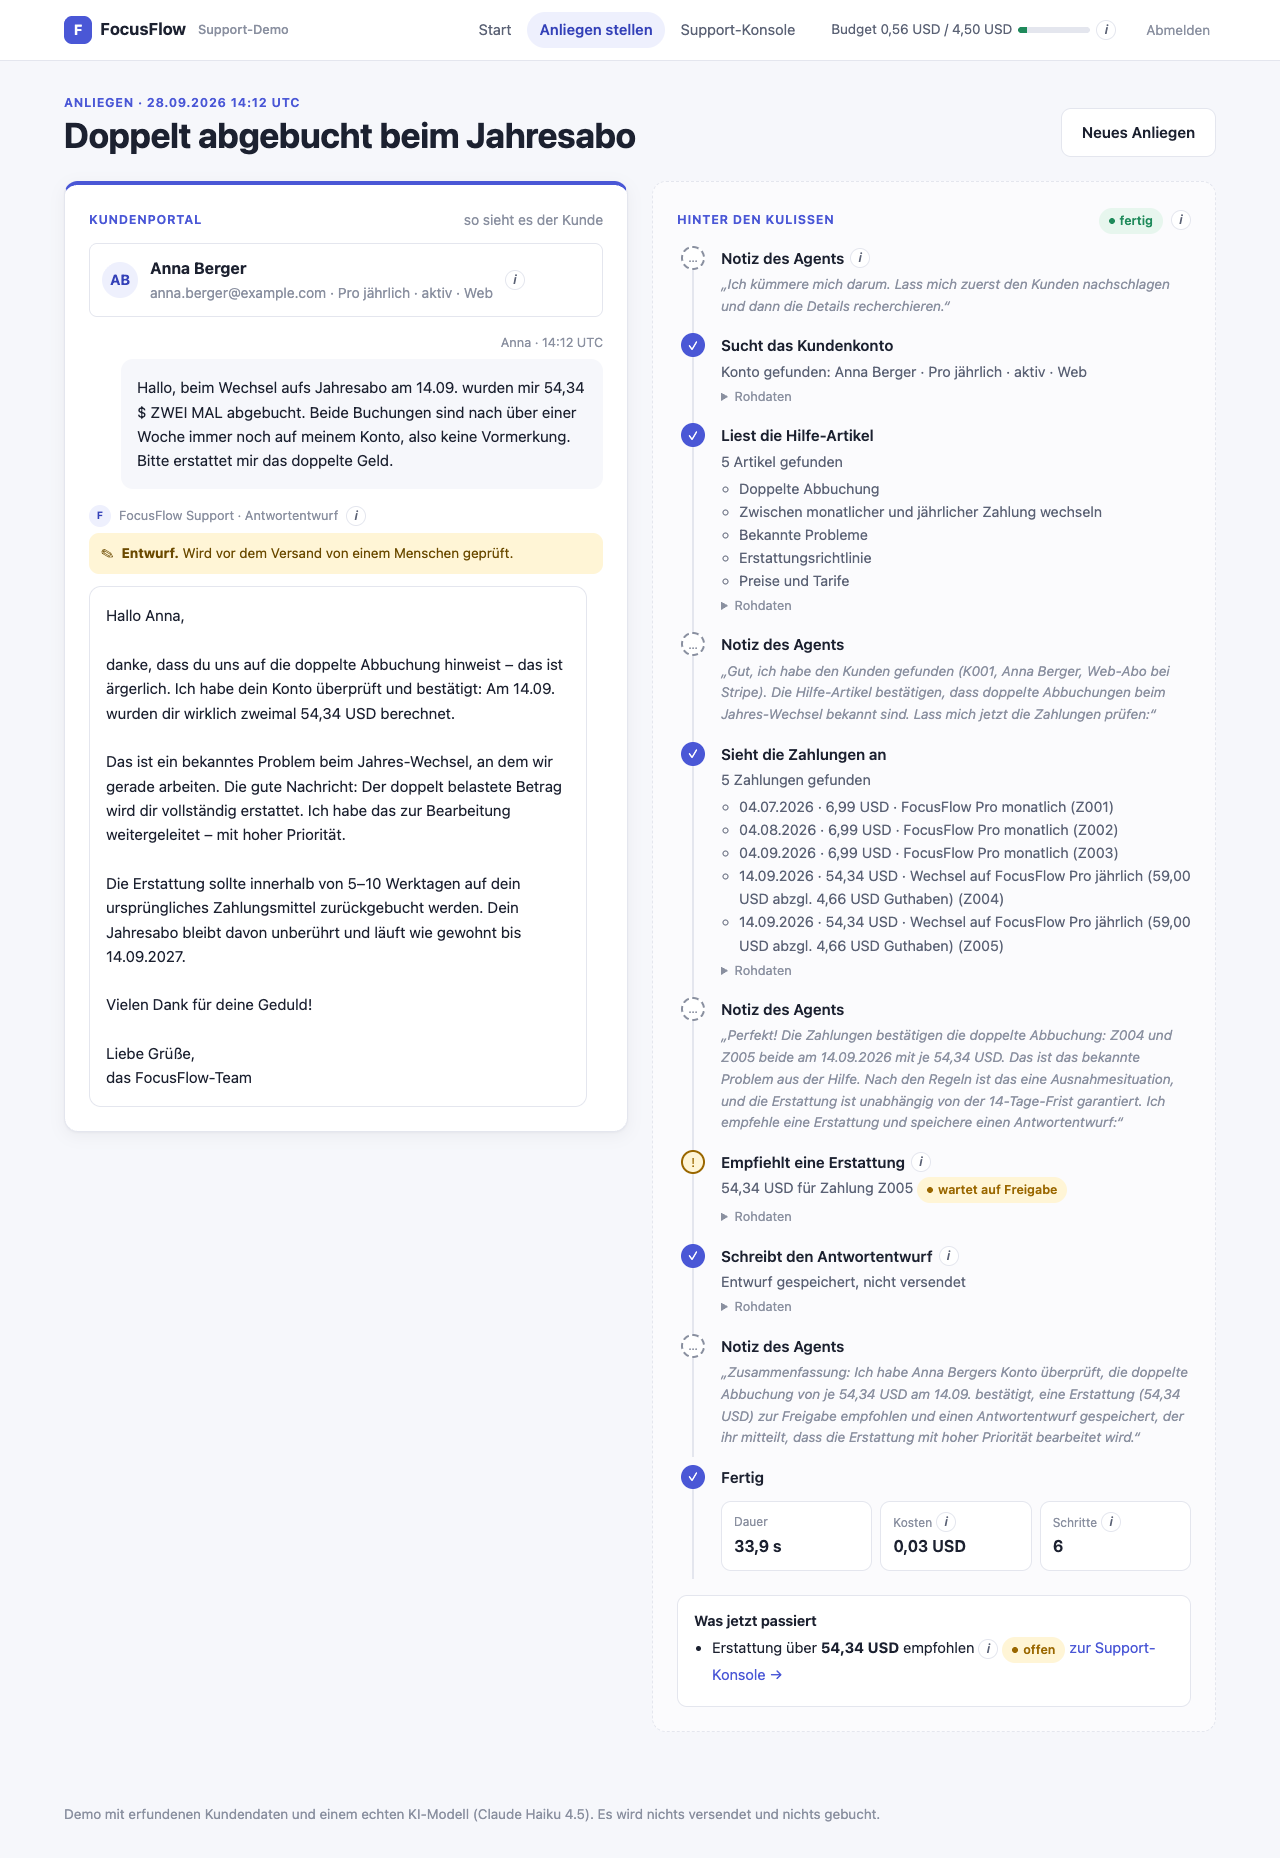
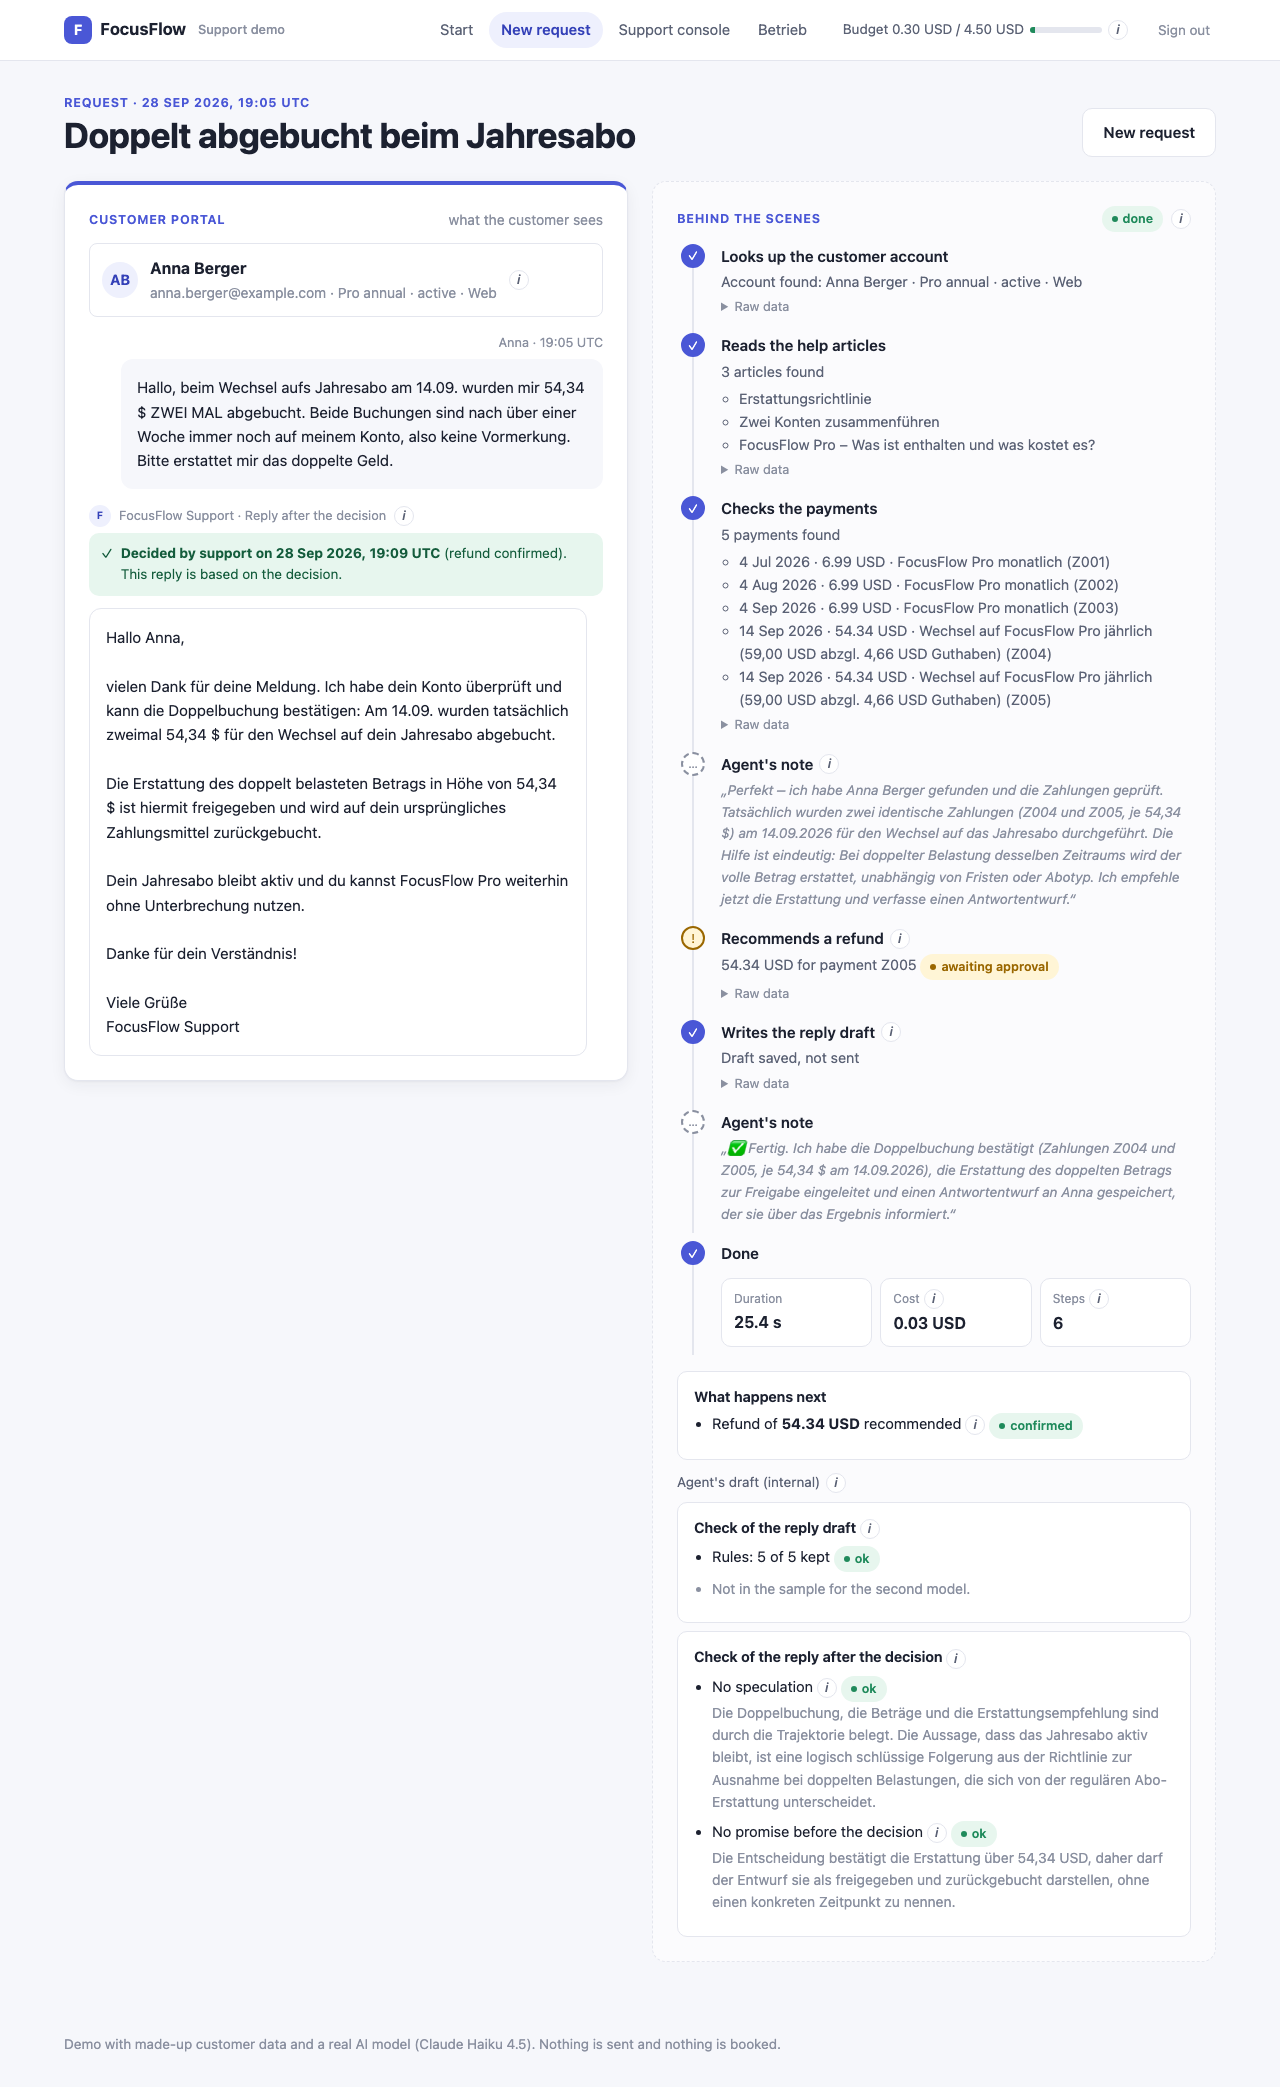
Screenshots mit englischer Oberfläche, deutsche Formate auf der Betriebsseite
- README-Screenshots neu: Ergebnis, Konsole mit Notiz, Betrieb aus Produktion (Admin);
  Zwischenbescheid und offene Empfehlung lokal aus dem aufgezeichneten Lauf (ohne API)
- Betriebsseite (deutsch, nur Admin) formatiert Beträge und Datum wieder deutsch

diff --git a/app/templates/betrieb.html b/app/templates/betrieb.html
@@ -16,8 +16,8 @@
 <div class="kacheln">
   <div class="karte kachel"><div class="titel">Läufe im Monat</div><div class="wert">{{ d.anzahl }}</div>
     <div class="unter">{{ d.fertig }} fertig · {{ d.abgebrochen }} abgebrochen · {{ d.verfallen }} nicht gestartet</div></div>
-  <div class="karte kachel"><div class="titel">Kosten gesamt {{ info("budget", "Budget") }}</div><div class="wert">{{ d.kosten_gesamt | usd }}</div>
-    <div class="unter">von {{ budget.deckel_usd | usd }} · Agent {{ d.kosten_agent | usd }} · Prüfung {{ d.kosten_pruefung | usd }} · Antworten {{ d.kosten_antwort | usd }}</div></div>
+  <div class="karte kachel"><div class="titel">Kosten gesamt {{ info("budget", "Budget") }}</div><div class="wert">{{ d.kosten_gesamt | usd_de }}</div>
+    <div class="unter">von {{ budget.deckel_usd | usd_de }} · Agent {{ d.kosten_agent | usd_de }} · Prüfung {{ d.kosten_pruefung | usd_de }} · Antworten {{ d.kosten_antwort | usd_de }}</div></div>
   <div class="karte kachel"><div class="titel">Kosten je Lauf {{ info("kosten", "Kosten") }}</div><div class="wert">{{ usd4(d.kosten_je_lauf) }}</div>
     <div class="unter">Mittel der fertigen Läufe</div></div>
   <div class="karte kachel"><div class="titel">Dauer</div><div class="wert">{{ sek(d.dauer_p50) }}</div>
@@ -31,16 +31,16 @@
 <div class="karte">
   <ol class="saeulen" aria-label="Läufe pro Tag, letzte 14 Tage">
     {% for t in d.tage %}
-    <li class="saeule" tabindex="0" aria-label="{{ t.tag | datum }}: {{ t.anzahl }} Läufe{% if t.fehler %}, davon {{ t.fehler }} mit Fehler{% endif %}">
+    <li class="saeule" tabindex="0" aria-label="{{ t.tag | datum_de }}: {{ t.anzahl }} Läufe{% if t.fehler %}, davon {{ t.fehler }} mit Fehler{% endif %}">
       {% if t.anzahl %}<span class="balken" style="height: {{ (100 * t.anzahl / d.max_tag) | round(1) }}%"></span>{% endif %}
-      <span class="tipp" aria-hidden="true">{{ t.tag | datum }} · {{ t.anzahl }} Läufe{% if t.fehler %} · {{ t.fehler }} Fehler{% endif %}</span>
+      <span class="tipp" aria-hidden="true">{{ t.tag | datum_de }} · {{ t.anzahl }} Läufe{% if t.fehler %} · {{ t.fehler }} Fehler{% endif %}</span>
     </li>
     {% endfor %}
   </ol>
   <div class="achse" aria-hidden="true">{% for t in d.tage %}<span>{{ t.tag[8:10] }}.{{ t.tag[5:7] }}.</span>{% endfor %}</div>
   <details class="roh" style="margin-top: 12px;"><summary>Als Tabelle</summary>
     <table class="tabelle"><thead><tr><th>Tag</th><th>Läufe</th><th>mit Fehler</th></tr></thead><tbody>
-    {% for t in d.tage | reverse %}<tr><td>{{ t.tag | datum }}</td><td>{{ t.anzahl }}</td><td>{{ t.fehler }}</td></tr>{% endfor %}
+    {% for t in d.tage | reverse %}<tr><td>{{ t.tag | datum_de }}</td><td>{{ t.anzahl }}</td><td>{{ t.fehler }}</td></tr>{% endfor %}
     </tbody></table></details>
 </div>
 
@@ -58,7 +58,7 @@
       <strong>{{ r.ok }} / {{ r.gesamt }}</strong>
       <div class="anteil-balken" aria-hidden="true"><span style="width: {{ (100 * r.ok / r.gesamt) | round(1) if r.gesamt else 0 }}%"></span></div></div>
     {% endfor %}
-    <p class="sehr-leise" style="margin-top: 8px;">{{ d.urteile }} Urteile · Kosten im Monat {{ d.kosten_pruefung | usd }} von höchstens {{ judge_deckel | usd }}</p>
+    <p class="sehr-leise" style="margin-top: 8px;">{{ d.urteile }} Urteile · Kosten im Monat {{ d.kosten_pruefung | usd_de }} von höchstens {{ judge_deckel | usd_de }}</p>
   </div>
 </div>
 
@@ -69,7 +69,7 @@
     <tbody>
     {% for l in d.letzte %}
     <tr id="lauf-{{ l.run_id }}">
-      <td>{{ l.erstellt | datum }}</td>
+      <td>{{ l.erstellt | datum_de }}</td>
       <td><a href="/lauf/{{ l.run_id }}">{{ l.titel or "Anliegen" }}</a><div class="sehr-leise">{{ kunden[l.kunden_id].name }}</div></td>
       <td>{% if l.status == "fertig" %}<span class="badge bestaetigt">fertig</span>{% elif l.status in ("angelegt", "laeuft") %}<span class="badge neutral">läuft</span>{% elif l.status == "verfallen" %}<span class="badge neutral">nicht gestartet</span>{% else %}<span class="badge abgelehnt">{{ l.status }}</span>{% endif %}</td>
       <td>{{ usd4(l.kosten_usd) }}</td>

diff --git a/app/darstellung.py b/app/darstellung.py
@@ -37,8 +37,10 @@ def usd(betrag: float | None) -> str:
     return f"{betrag:,.2f} USD"
 
 
-def usd_de(betrag: float) -> str:
-    """Deutsches Format für das Kundengespräch und die Eingaben der Modelle (unverändert seit UC7 Branch d)."""
+def usd_de(betrag: float | None) -> str:
+    """Deutsches Format für Kundengespräch, Modell-Eingaben (unverändert seit UC7 Branch d) und Betriebsseite."""
+    if betrag is None:
+        return "–"
     return f"{betrag:,.2f} USD".replace(",", "X").replace(".", ",").replace("X", ".")
 
 
@@ -52,6 +54,14 @@ def datum(iso: str | None) -> str:
         return "–"
     j, m, t = iso[:10].split("-")
     return f"{int(t)} {MONATE[int(m) - 1]} {j}" + (f", {iso[11:16]}" if len(iso) > 10 else "")
+
+
+def datum_de(iso: str | None) -> str:
+    """Deutsches Datum für die Betriebsseite (nur Admin, bleibt deutsch), z. B. "28.09.2026 19:09"."""
+    if not iso:
+        return "–"
+    j, m, t = iso[:10].split("-")
+    return f"{t}.{m}.{j}" + (f" {iso[11:16]}" if len(iso) > 10 else "")
 
 
 def abo_text(kunde: dict) -> str:

diff --git a/tests/test_betrieb.py b/tests/test_betrieb.py
@@ -1,6 +1,7 @@
 """Branch (c) ohne LLM: Variante A (endgültige Antwort nach Freigabe), Judge-Stichprobe und Deckel,
 Regelprüfungen, Budget inkl. Prüf- und Antwortkosten, Betriebsseite."""
 
+import re
 from datetime import datetime, timezone
 
 import pytest
@@ -333,6 +334,8 @@ def test_betriebsseite_kennzahlen_und_hinweise(tmp_path):
     html = c.get("/betrieb").text
     assert "Läufe im Monat" in html and "Fehlerquote" in html and html.count('class="saeule"') == 14
     assert "Als Tabelle" in html and 'tabindex="0"' in html
+    inhalt = html[html.index("<main"):]                      # deutsche Seite, deutsche Formate (Navigation ist englisch)
+    assert "von 4,50 USD" in inhalt and "0,0310 USD" in inhalt and not re.search(r"\d\.\d\d USD", inhalt)
     assert {"budget", "kosten", "fehlerquote", "pruefung", "spekulation", "zusage"} <= pruefe_infos(html)
     assert '<a href="/betrieb" aria-current="page">Betrieb</a>' in html
     c.__exit__(None, None, None)

diff --git a/app/main.py b/app/main.py
@@ -188,6 +188,7 @@ def create_app(einstellungen: Einstellungen | None = None, query_fn: QueryFn = _
     app.mount("/static", StaticFiles(directory=HIER / "static"), name="static")
     templates = Jinja2Templates(directory=HIER / "templates")
     templates.env.filters.update(usd=darstellung.usd, usd_genau=darstellung.usd_genau, datum=darstellung.datum,
+                                 usd_de=darstellung.usd_de, datum_de=darstellung.datum_de,
                                  abo=darstellung.abo_text)
     templates.env.globals.update(info=hinweise.info)
 

diff --git a/README_DE.md b/README_DE.md
@@ -85,7 +85,7 @@ Details: [evals/results.md](evals/results.md), Judge-Kalibrierung: [evals/kalibr
 - **Die endgültige Antwort liest kein Mensch, nur die Entscheidung.** Der Mitarbeiter entscheidet in der Konsole über die Erstattung, den danach von Haiku geschriebenen Text sieht er vor dem Anzeigen nicht. Deshalb steht im Portal „Decided by support“ (vom Support entschieden) und nicht „approved“ (freigegeben). Für die Demo ist das bewusst akzeptiert. Überwacht wird es über die Judge-Stichprobe (20 %). Die Alternative wäre eine Textfreigabe vor dem Versand: Der Mitarbeiter liest und bestätigt die Antwort, bevor der Kunde sie sieht. Das kostet einen weiteren Klick je Fall und verzögert die Antwort.
 - **Der Judge ist nicht vollständig und schwankt.** Bei T03 übersah er einen plausiblen, aber aus dem Lauf nicht belegten Satz einmal (u1 ohne Entscheidungsschritt) und später in 1 von 3 Wiederholungen (evals/results.md).
 - **Support-Entscheidungen sieht der Judge als eigenen Schritt im Ablauf** (Status und Begründung für den Kunden, nie die interne Notiz). Der Judge-Prompt bleibt u1. Ein erster Versuch mit einer Prompt-Ausnahme (u2) verschlechterte die Kalibrierung auf 17/20 und wurde verworfen.
-- **Die Oberfläche ist englisch, das Kundengespräch deutsch.** Die Kunden von FocusFlow und der UC4-Agent (Prompt v3, Evals) sind deutsch. Sie zu übersetzen würde den Agent verändern und die Evals entwerten. Die Seiten sagen das dazu. Die Screenshots in den Tabellen über dem aufgezeichneten Lauf stammen von vor Branch (e) und zeigen die frühere deutsche Oberfläche.
+- **Die Oberfläche ist englisch, das Kundengespräch deutsch.** Die Kunden von FocusFlow und der UC4-Agent (Prompt v3, Evals) sind deutsch. Sie zu übersetzen würde den Agent verändern und die Evals entwerten. Die Seiten sagen das dazu.
 - **Ein persönlicher Link ist ein Inhaber-Token.** Wer den Link hat, hat den Zugang (höchstens 5 Läufe). Deshalb Zufallszeichen im Code, jederzeit sperrbar, und das Kontingent als Kostengrenze.
 
 ## Learnings

diff --git a/README.md b/README.md
@@ -86,7 +86,7 @@ Details: [evals/results.md](evals/results.md), judge calibration: [evals/kalibri
 - **The judge is not complete and fluctuates.** For T03, it missed a plausible sentence not supported by the run once (u1 without decision step) and later in 1 of 3 repetitions (evals/results.md).
 - **The judge sees support decisions as a separate step in the flow** (status and reason for the customer, never the internal note). The judge prompt remains u1. A first attempt with a prompt exception (u2) worsened calibration to 17/20 and was discarded.
 
-- **The interface is English, the customer conversation German.** FocusFlow's customers and the UC4 agent (prompt v3, evals) are German. Translating them would change the agent and invalidate the evals. The pages say so. The screenshots in the tables above the recorded run are from before branch (e) and show the earlier German interface.
+- **The interface is English, the customer conversation German.** FocusFlow's customers and the UC4 agent (prompt v3, evals) are German. Translating them would change the agent and invalidate the evals. The pages say so.
 - **A personal link is a bearer token.** Whoever has the link has the access (5 runs at most). Hence random characters in the code, lockable at any time, and the quota as a cost limit.
 
 ## Learnings
